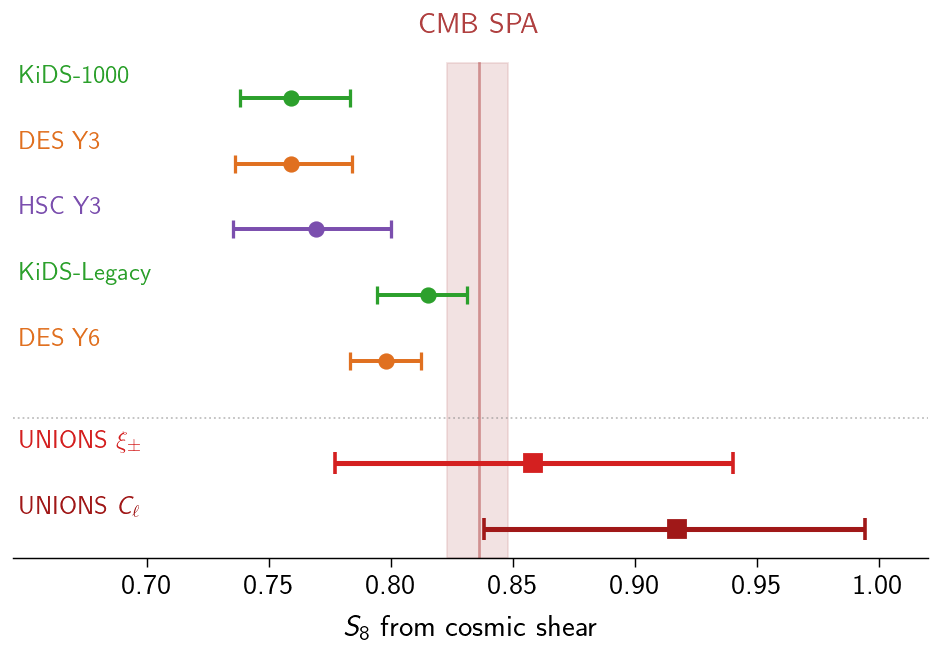
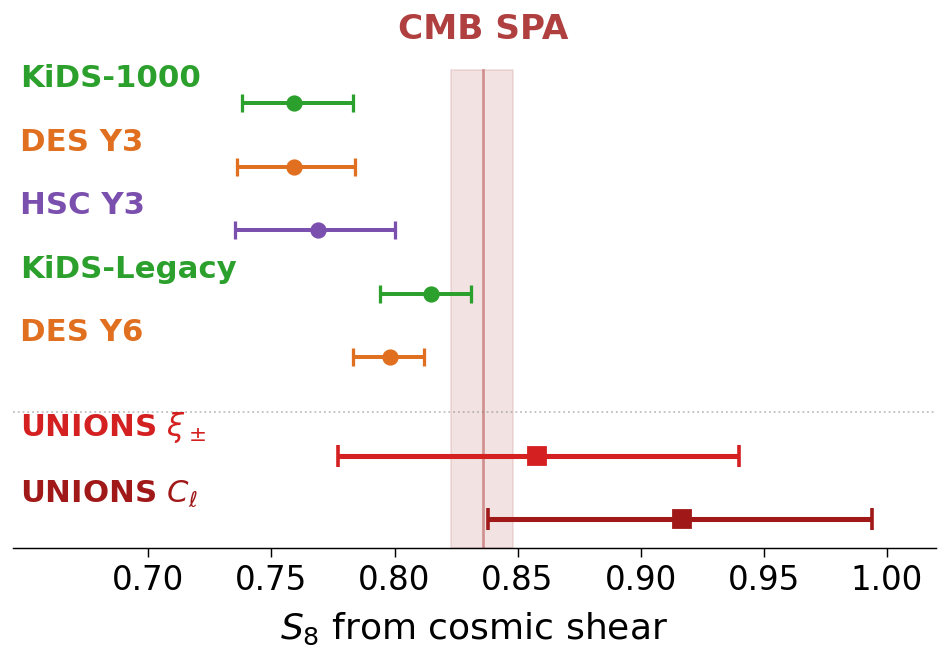
slide polish: restructure B-modes, enlarge contour plots, text audit
- Slide 10: plot between first two and last two bullets
- Slide 12: drop covariance bullet (4 bullets, was 5)
- Slide 13: plots to 100% width
- Whisker plot: font sizes bumped (labels 17, axis 20, ticks 18)
- Fix last stray em dash (slide 15)
- presentation.smk: shell instead of script for talk-local plots
  (script: resolves through workflow symlink, misses talks repo)
- Remove container: None so plots run inside container

diff --git a/26_Moriond_UNIONS/plot_s8_with_unions.py b/26_Moriond_UNIONS/plot_s8_with_unions.py
@@ -39,7 +39,7 @@ ax.axvspan(cmb_s8 - cmb_lo, cmb_s8 + cmb_hi, color="#d4a0a0", alpha=0.3, zorder=
 ax.axvline(cmb_s8, color="#b04040", ls="-", lw=1.5, alpha=0.5, zorder=0,
            ymin=0, ymax=0.92)
 
-ax.text(cmb_s8, -1.0, "CMB SPA", fontsize=16, fontweight="bold",
+ax.text(cmb_s8, -1.0, "CMB SPA", fontsize=19, fontweight="bold",
         color="#b04040", va="bottom", ha="center")
 
 # Stage III surveys
@@ -52,7 +52,7 @@ for i in range(len(surveys)):
     )
 
 for i, name in enumerate(surveys):
-    ax.text(0.648, y[i] - 0.18, name, fontsize=14, fontweight="bold",
+    ax.text(0.648, y[i] - 0.18, name, fontsize=17, fontweight="bold",
             va="bottom", ha="left", color=colors[i])
 
 # Separator line
@@ -69,25 +69,22 @@ for i in range(len(unions_surveys)):
     )
 
 for i, name in enumerate(unions_surveys):
-    ax.text(0.648, y_unions[i] - 0.18, name, fontsize=14, fontweight="bold",
+    ax.text(0.648, y_unions[i] - 0.18, name, fontsize=17, fontweight="bold",
             va="bottom", ha="left", color=unions_colors[i])
 
-ax.set_xlabel(r"$S_8$ from cosmic shear", fontsize=17, labelpad=8)
+ax.set_xlabel(r"$S_8$ from cosmic shear", fontsize=20, labelpad=8)
 ax.set_xlim(0.645, 1.02)
 ax.set_ylim(-1.3, y_unions[-1] + 0.5)
 ax.invert_yaxis()
 ax.set_yticks([])
 ax.set_xticks([0.70, 0.75, 0.80, 0.85, 0.90, 0.95, 1.00])
-ax.tick_params(axis="x", labelsize=16, length=5)
+ax.tick_params(axis="x", labelsize=18, length=5)
 ax.spines["top"].set_visible(False)
 ax.spines["right"].set_visible(False)
 ax.spines["left"].set_visible(False)
 
 plt.tight_layout()
-try:
-    outpath = snakemake.output[0]
-except NameError:
-    outpath = "docs/talks/images/s8_convergence_with_unions.png"
+outpath = "docs/talks/images/s8_convergence_with_unions.png"
 
 plt.savefig(outpath, dpi=130, bbox_inches="tight", facecolor="white")
 print("Saved")
